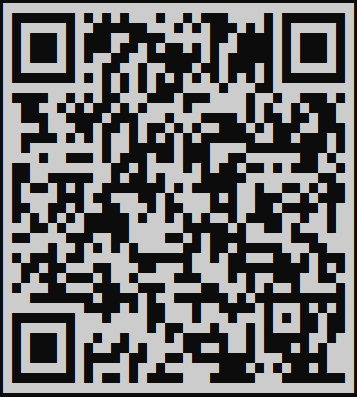
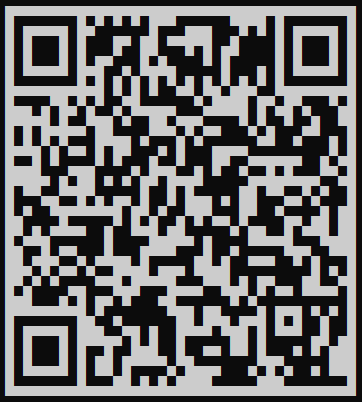
README

diff --git a/README.MD b/README.MD
@@ -24,7 +24,7 @@ Instale o APK usando o QR Code ou o Link:
 
 ![QR Code APK](./app/assets/git_pictures/apk-qrcode.PNG)
 
-[CLIQUE AQUI PARA FAZER O DOWNLOAD](https://expo.dev/artifacts/eas/9czMuU86kXSoq84xFadWGc.apk)
+[CLIQUE AQUI PARA FAZER O DOWNLOAD](https://expo.dev/artifacts/eas/mensLbB6fzB73XhVJFz2gC.apk)
 
 Após a instalação abra um gerenciador de arquivos e instale o app.
 
